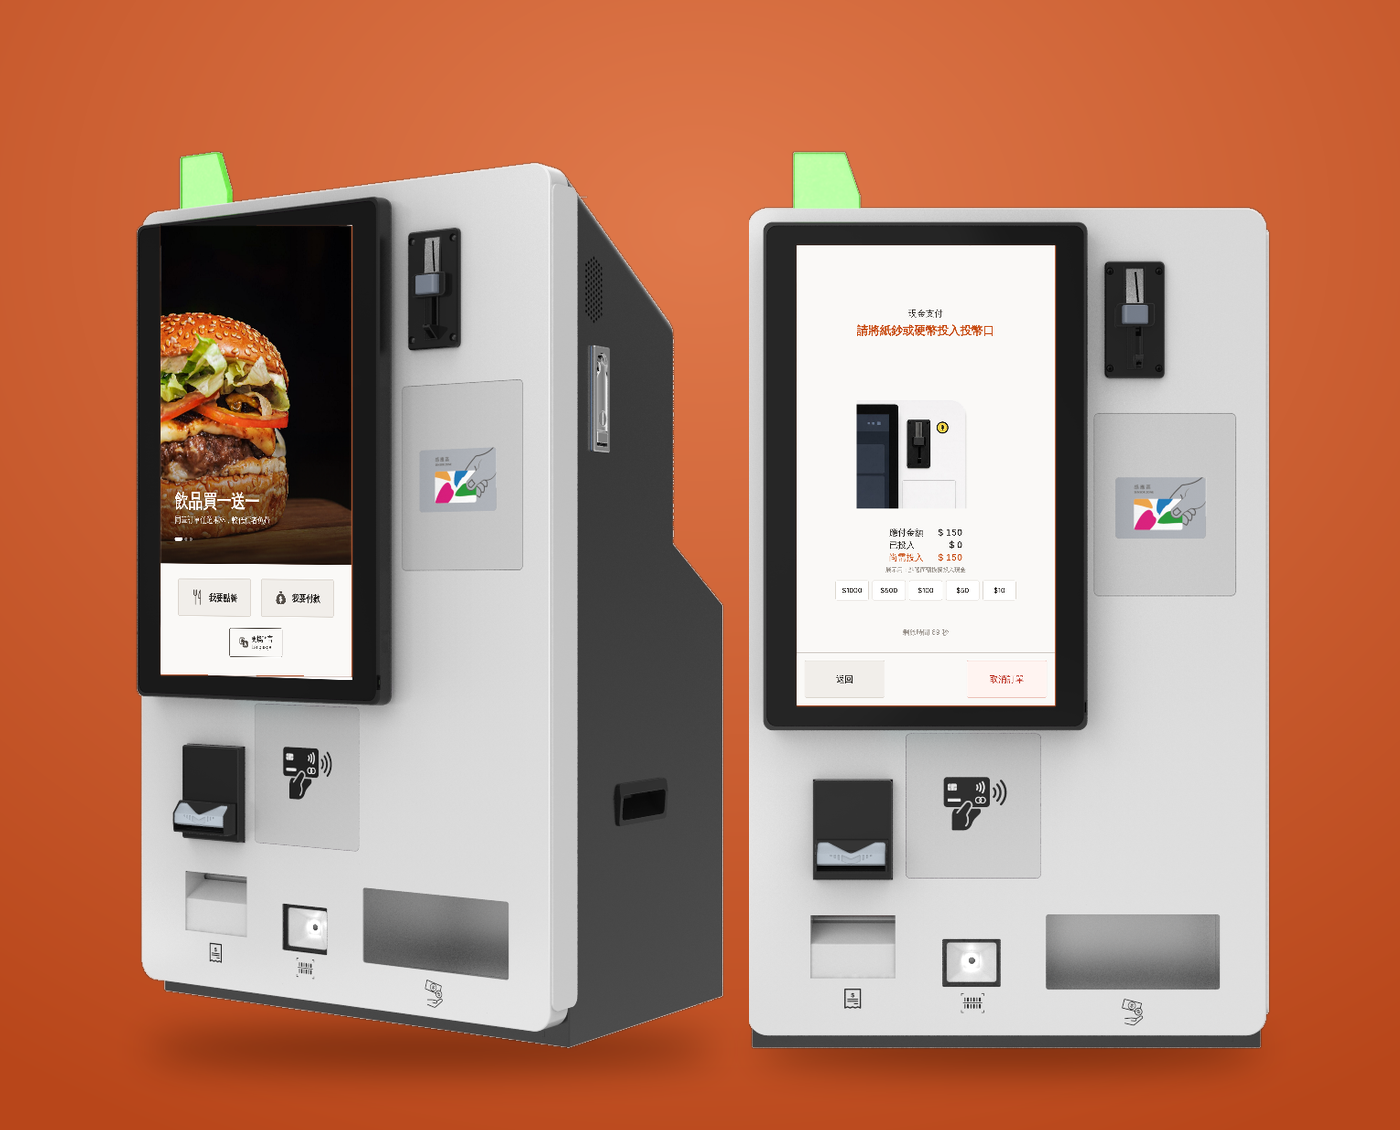
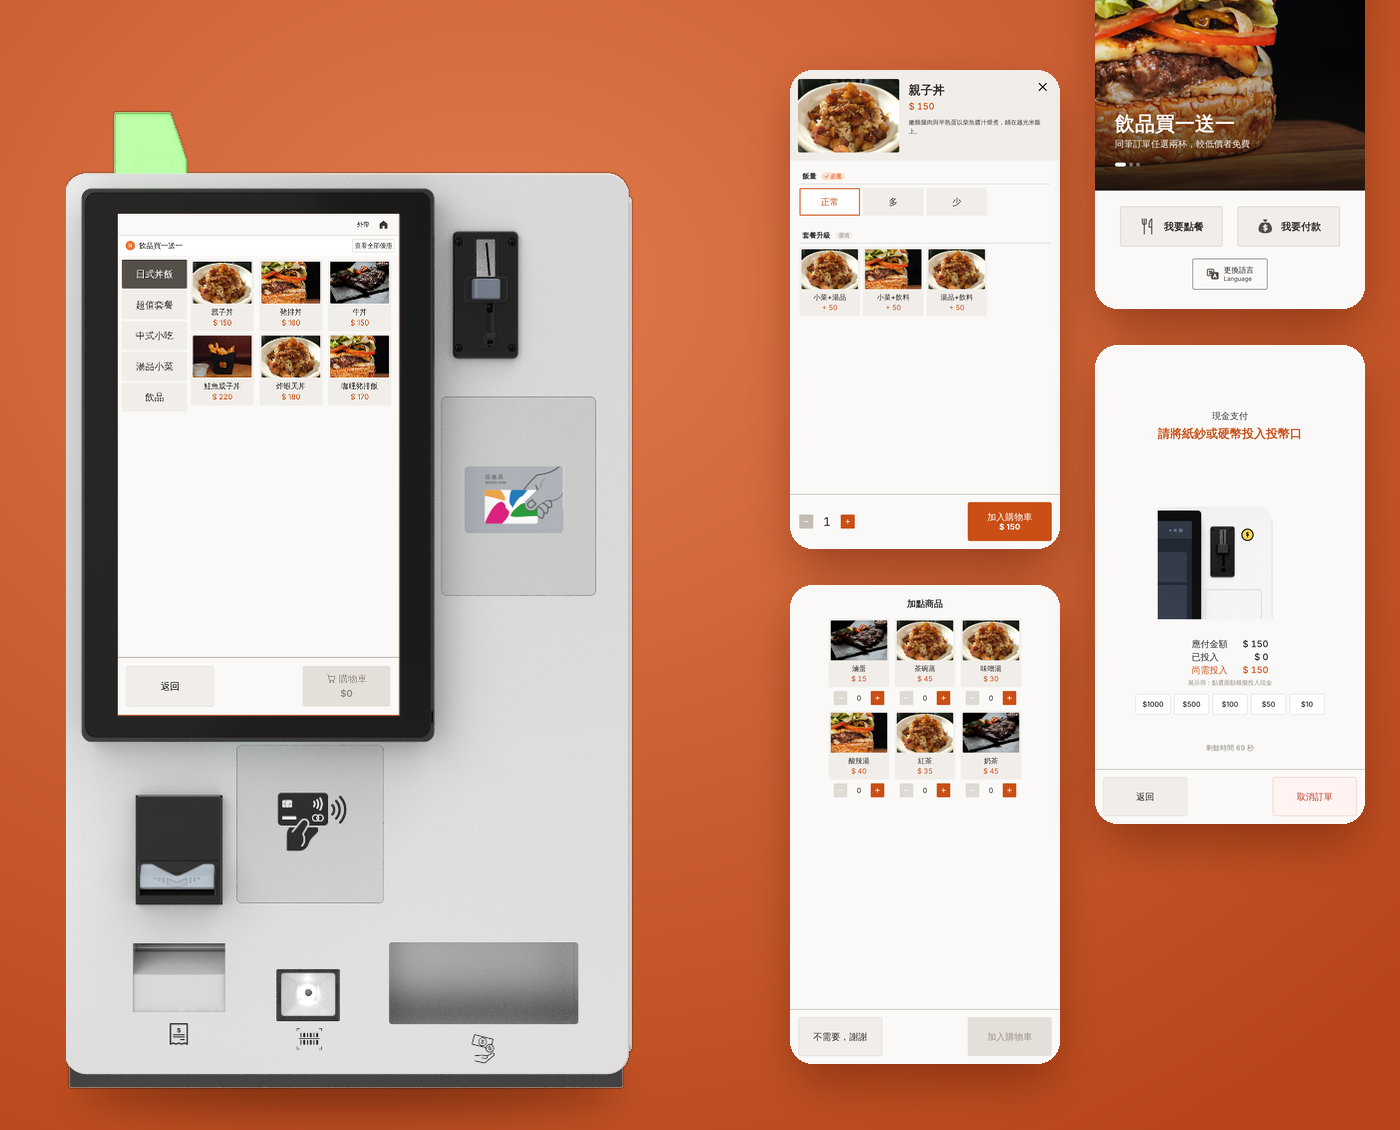
Covers: KIOSK front-view machine showing the menu with staggered screens; KDS four-tablet layout on dark grey
Claude-Session: https://claude.ai/code/session_01NDe3p8GQ2HZ5WF8ct1RAfY

diff --git a/script.js b/script.js
@@ -11,7 +11,7 @@ function updateLanguageControls(){const toggle=document.querySelector('#language
 document.querySelector('#language-toggle')?.addEventListener('click',()=>setPortfolioLanguage(isEnglish()?'zh':'en'));
 const figmaURL='https://www.figma.com/design/S2sh6gtlIJ3JtDM7i3MEiN/portfolio?node-id=1654-18351';
 const repoURL='https://github.com/chi861008/researved-system';
-const visual=(name)=>name==='schedule'?'<div class="work-visual visual-schedule"><div class="arrow-circle" aria-hidden="true">↗</div><div class="schedule-mock"><div class="schedule-top"><strong>Weekly schedule</strong><span>October / 2026　↗</span></div><div class="calendar-week">'+['MON','TUE','WED','THU','FRI','SAT','SUN'].map((d,i)=>'<div class="calendar-day"><b>'+d+'</b>'+(i===0||i===2||i===4?'<span class="calendar-pill">Pilates 10:00</span>':'')+(i===1||i===3?'<span class="calendar-pill orange-pill">Private 14:00</span>':'')+'</div>').join('')+'</div></div></div>':name==='kiosk'?'<div class="work-visual visual-kiosk kiosk-image-cover"><img src="./kiosk-cover.png?v=3" alt="KIOSK 自助點餐介面與付款引導的設計畫面拼貼"><div class="arrow-circle" aria-hidden="true">↗</div></div>':'<div class="work-visual visual-kds kds-image-cover"><img src="./kds-cover.png?v=3" alt="KDS 個人概念設計封面：深色廚房訂單與分類畫面的介面拼貼"><div class="arrow-circle" aria-hidden="true">↗</div></div>';
+const visual=(name)=>name==='schedule'?'<div class="work-visual visual-schedule"><div class="arrow-circle" aria-hidden="true">↗</div><div class="schedule-mock"><div class="schedule-top"><strong>Weekly schedule</strong><span>October / 2026　↗</span></div><div class="calendar-week">'+['MON','TUE','WED','THU','FRI','SAT','SUN'].map((d,i)=>'<div class="calendar-day"><b>'+d+'</b>'+(i===0||i===2||i===4?'<span class="calendar-pill">Pilates 10:00</span>':'')+(i===1||i===3?'<span class="calendar-pill orange-pill">Private 14:00</span>':'')+'</div>').join('')+'</div></div></div>':name==='kiosk'?'<div class="work-visual visual-kiosk kiosk-image-cover"><img src="./kiosk-cover.png?v=4" alt="KIOSK 自助點餐介面與付款引導的設計畫面拼貼"><div class="arrow-circle" aria-hidden="true">↗</div></div>':'<div class="work-visual visual-kds kds-image-cover"><img src="./kds-cover.png?v=4" alt="KDS 個人概念設計封面：深色廚房訂單與分類畫面的介面拼貼"><div class="arrow-circle" aria-hidden="true">↗</div></div>';
 const card=p=>'<a class="work-card" href="#/case/'+p.id+'">'+visual(p.visual)+'<div class="work-info"><div><h3>'+p.title+'</h3><p>'+p.zh+'<br>'+p.type+'</p></div><div class="project-number">'+p.number+' / 03</div></div></a>';
 function home(){return '<section class="identity-hero"><div class="identity-wrap"><h1 class="visually-hidden">Yuan Chi — Product Manager &amp; Product Designer</h1><div class="identity-caption">PORTFOLIO / 2026</div><div class="identity-title"><span>Yuan</span><figure class="identity-photo"><img src="./yuan-chi-expressive-hero.png" alt="Yuan Chi 俏皮的黑白個人照片" fetchpriority="high" loading="eager" decoding="async"><i class="corner c1"></i><i class="corner c2"></i><i class="corner c3"></i><i class="corner c4"></i></figure><span>Chi</span></div><div class="identity-details"><p>Product Manager ×<br>Product Designer</p><p>Research / Strategy / Design<br>From insight to working product</p><p>Based in Taiwan<br><a href="mailto:chi861008@gmail.com">chi861008@gmail.com ↗</a></p></div></div></section><section class="intro-portrait wrap" id="about"><div class="intro-copy"><div class="eyebrow">ABOUT ME</div><h2>Hi<span class="orange">.</span></h2><p>我是產品設計師，正往產品經理發展。擅長把模糊的業務問題拆成可以驗證的假設，再用研究、設計與可運作的原型，幫團隊做出取捨。</p><p>過去曾參與餐飲 POS、自助點餐機、雲端報表及廚房顯示系統等產品。工作之外，我也喜歡從生活中的真實問題發起 Side Project，讓研究、設計與開發不只停留在工作中，也能實際應用於日常生活。</p><a class="intro-link" href="#/about">More about me <span>↗</span></a></div><div class="intro-visual"><img src="./yuan-chi-about-crossleg-slim.svg" alt="Yuan Chi 個人黑白形象照"><div class="orbit-word">DESIGN · RESEARCH · PRODUCT · BUILD ·</div></div></section><section class="section-space wrap" id="work"><div class="section-head selected-head"><div><div class="eyebrow">SELECTED WORK / 2026</div><h2>Works record<span class="orange">.</span></h2></div></div><div class="work-grid identity-works">'+projects.map(card).join('')+'</div></section><section class="dark-band"><div class="wrap"><div class="eyebrow">THE WAY I THINK</div><h2>Fall in love with the problem, not the solution.</h2><a href="mailto:chi861008@gmail.com">Let’s connect ↗</a></div></section>';}
 function aboutSection(){return '<section class="section-space wrap" id="about"><div class="about-mini"><div><div class="eyebrow">02 / About</div><h2>Curious by nature.<br>Builder by choice.</h2></div><div><p>我的背景跨越工業設計、使用者研究與數位產品設計，做過餐飲 POS、自助點餐機與廚房顯示系統。現在我往產品經理發展：定義問題、排定優先順序、用最小成本驗證，必要時用 AI 輔助開發自己把原型做出來。</p><p>我喜歡定義問題、串聯不同線索、提出解法，以及把複雜的邏輯整理得讓人容易理解。</p><div class="skills"><span class="chip">Product Discovery</span><span class="chip">Prioritization</span><span class="chip">UX Research</span><span class="chip">Product Design</span><span class="chip">Prototyping</span><span class="chip">AI-assisted Development</span></div></div></div></section>';}

diff --git a/index.html b/index.html
@@ -12,7 +12,7 @@
   <link href="https://fonts.googleapis.com/css2?family=DM+Sans:wght@400;500;600;700&family=Noto+Sans+TC:wght@400;500;600;700;800&display=swap" rel="stylesheet">
   <link rel="preload" as="image" href="./yuan-chi-expressive-hero.png" fetchpriority="high" />
   <link rel="preload" as="image" href="./yuan-chi-hero-flip-back.png" />
-  <link rel="stylesheet" href="./style.css?v=20261029zt" />
+  <link rel="stylesheet" href="./style.css?v=20261029zu" />
 </head>
 <body>
   <header class="nav">
@@ -29,7 +29,7 @@
     <div><strong>Yuan Chi Chang</strong><span>UX × Product Thinking × Building</span></div>
     <div class="footer-right"><span>Made with curiosity, 2026.</span><a href="#/">Back to top ↑</a></div>
   </footer>
-  <script src="./english.js?v=20261029zt"></script>
-  <script src="./script.js?v=20261029zt"></script>
+  <script src="./english.js?v=20261029zu"></script>
+  <script src="./script.js?v=20261029zu"></script>
 </body>
 </html>
